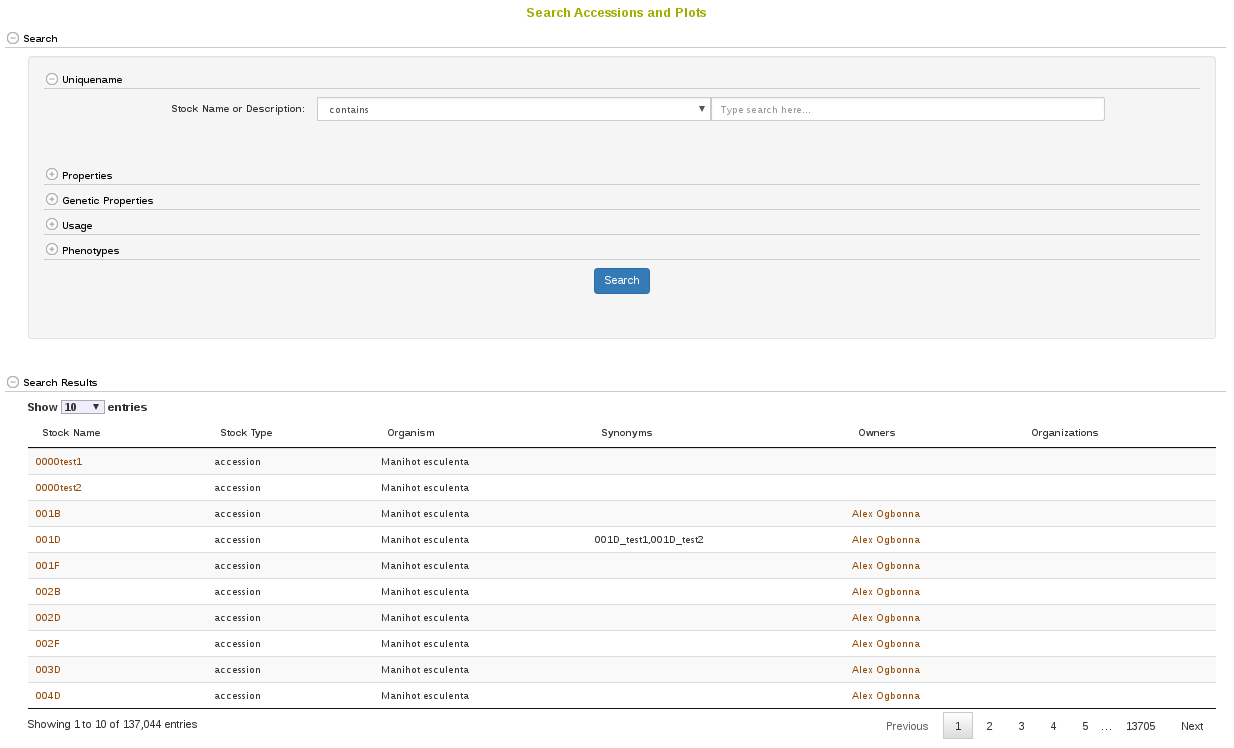
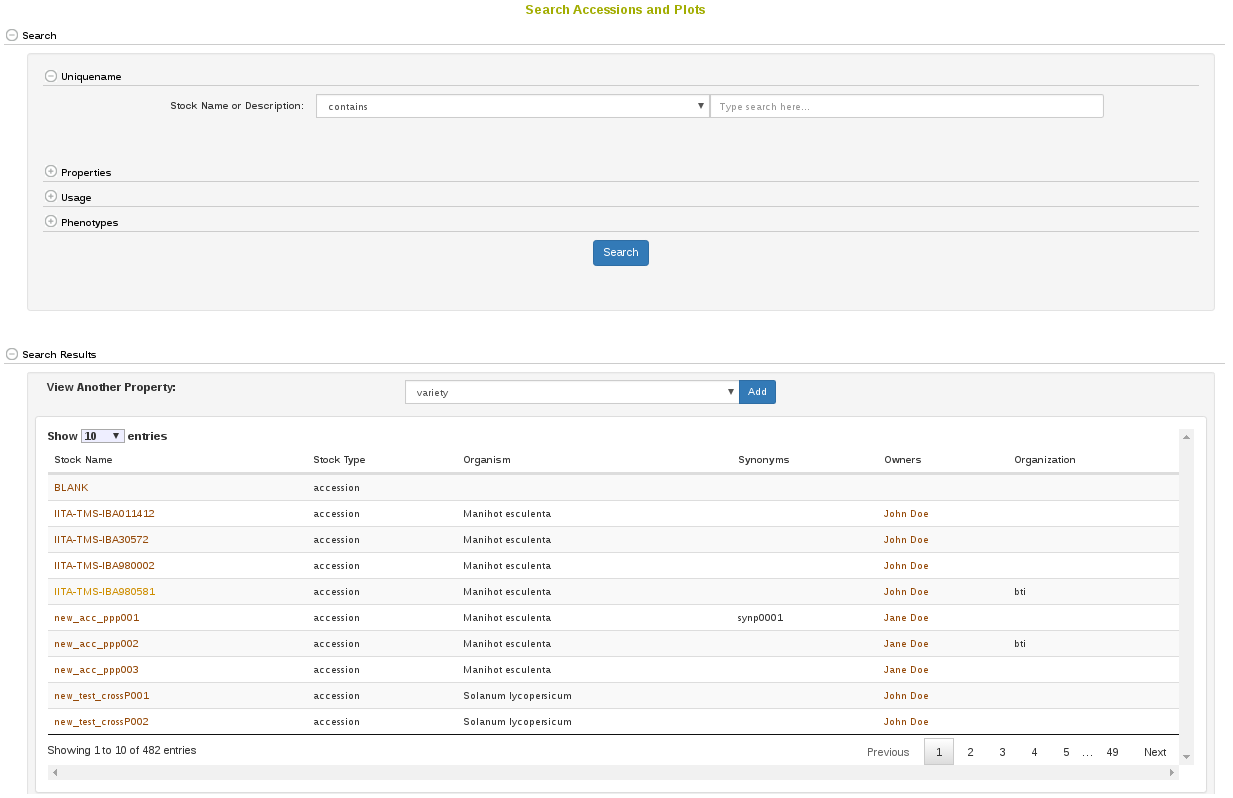
search accessions doc

diff --git a/docs/02_searching_the_database.md b/docs/02_searching_the_database.md
@@ -96,10 +96,18 @@ This will take just a few seconds in small databases, but may take a few hours t
 2.2 Accessions and Plot Search
 ------------------------------
 
-Accessions and their related materials (cross, plant, plot, population, tissue\_sample, training population) can be searched by using “Search Accessions and Plots” page. On this page, “accession” is the default stock type. However, you can change stock type by selecting an option from the drop-down list.
+Accessions and their related materials (cross, plant, plot, population, tissue\_sample, training population) can be searched by using “Search Accessions and Plots” page. On this page, “accession” is the default stock type; however, you can change stock type by selecting an option from the drop-down list.
 From this page you can construct detailed queries for stock types. For example, by using the "Usage" section, the "Properties" section, and the "Phenotypes" section you could search for accessions which were diploids used in a specific year and location and were also phenotyped for height. You can also search for accessions based on genetic properties, such as the location of an introgression on a specific chromosome.
 
 ![]({{"assets/images/search_accessions.png" | relative_url }})
+
+It is possible to query over any of the available properties, such as "ploidy_level", "country of origin", "introgression_chromosome", etc.
+
+![]({{"assets/images/search_accessions_properties_search.png" | relative_url }})
+
+In the search result table it is possible to select any of the available properties to view.
+
+![]({{"assets/images/search_accessions_properties_view.png" | relative_url }})
 
 At the bottom of the accession search there is a phenotype graphical filtering tool. Here you can filter down accessions based on combinations of trait performance. The filtered down accessions are then able to be saved to a list.
 
